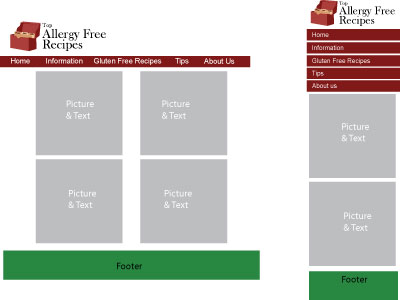
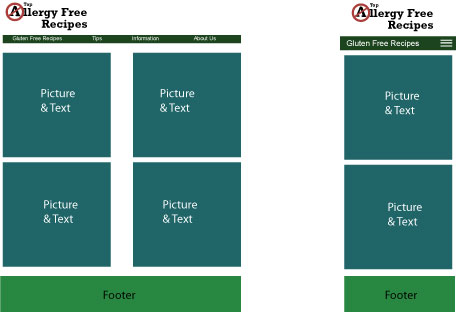
Add files via upload

diff --git a/Modules/head.php b/Modules/head.php
@@ -1,0 +1,14 @@
+ <meta charset="UTF-8">
+        <meta name="author" content="Elizabeth Hagey">
+        <meta name="viewport" content="width=device-width, initial-scale=1.0">
+        <!--google analytics-->
+        <script>
+  (function(i,s,o,g,r,a,m){i['GoogleAnalyticsObject']=r;i[r]=i[r]||function(){
+  (i[r].q=i[r].q||[]).push(arguments);},i[r].l=1*new Date();a=s.createElement(o),
+  m=s.getElementsByTagName(o)[0];a.async=1;a.src=g;m.parentNode.insertBefore(a,m);
+  })(window,document,'script','//www.google-analytics.com/analytics.js','ga');
+
+  ga('create', 'UA-73755484-1', 'auto');
+  ga('send', 'pageview');
+
+</script>

diff --git a/Modules/navigation.php b/Modules/navigation.php
@@ -1,0 +1,7 @@
+    <ul>
+        <li><a href ="index.php">Home</a></li>
+        <li><a href="info.php">Information</a></li>
+        <li><a href="glutenFreeRecipes.php">Gluten Free Recipes</a></li>
+        <li><a href="tips.php">Tips for living Gluten Free</a></li>
+        <li><a href="aboutMe.php">About Me</a></li>
+    </ul>    

diff --git a/Modules/header.php b/Modules/header.php
@@ -1,0 +1,3 @@
+       
+        <!--this will be the logo that will be a link home-->
+        <a href="index.php"><img src="/media/Logo.jpg" alt="Logo"></a>

diff --git a/Modules/footer.php b/Modules/footer.php
@@ -1,0 +1,4 @@
+<ul>
+    <li><a href="sitePlan.php">Site Plan</a></li>
+    <li><a href="teachingPresentation.php">Teaching Presentation</a></li>
+</ul>
